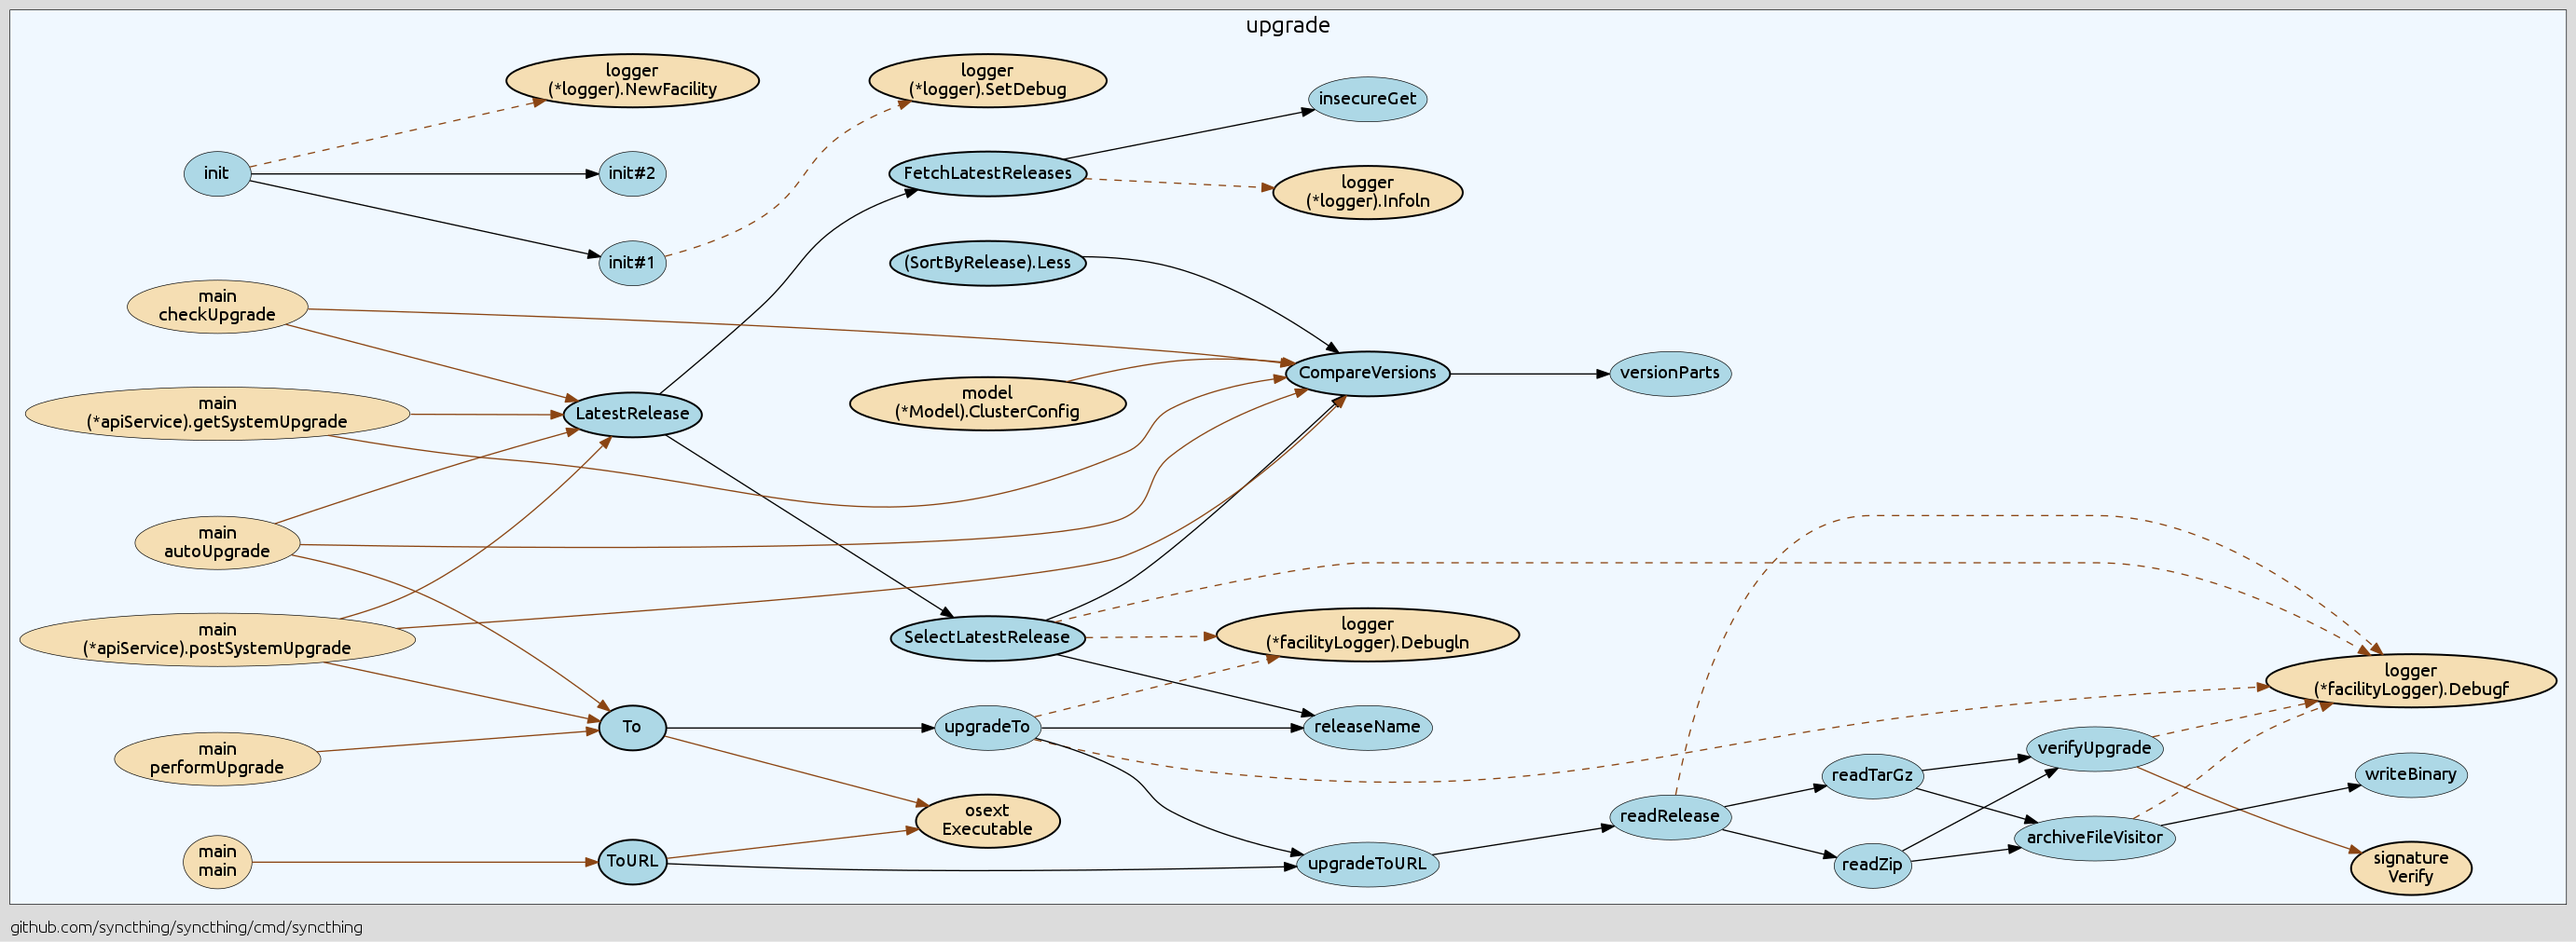
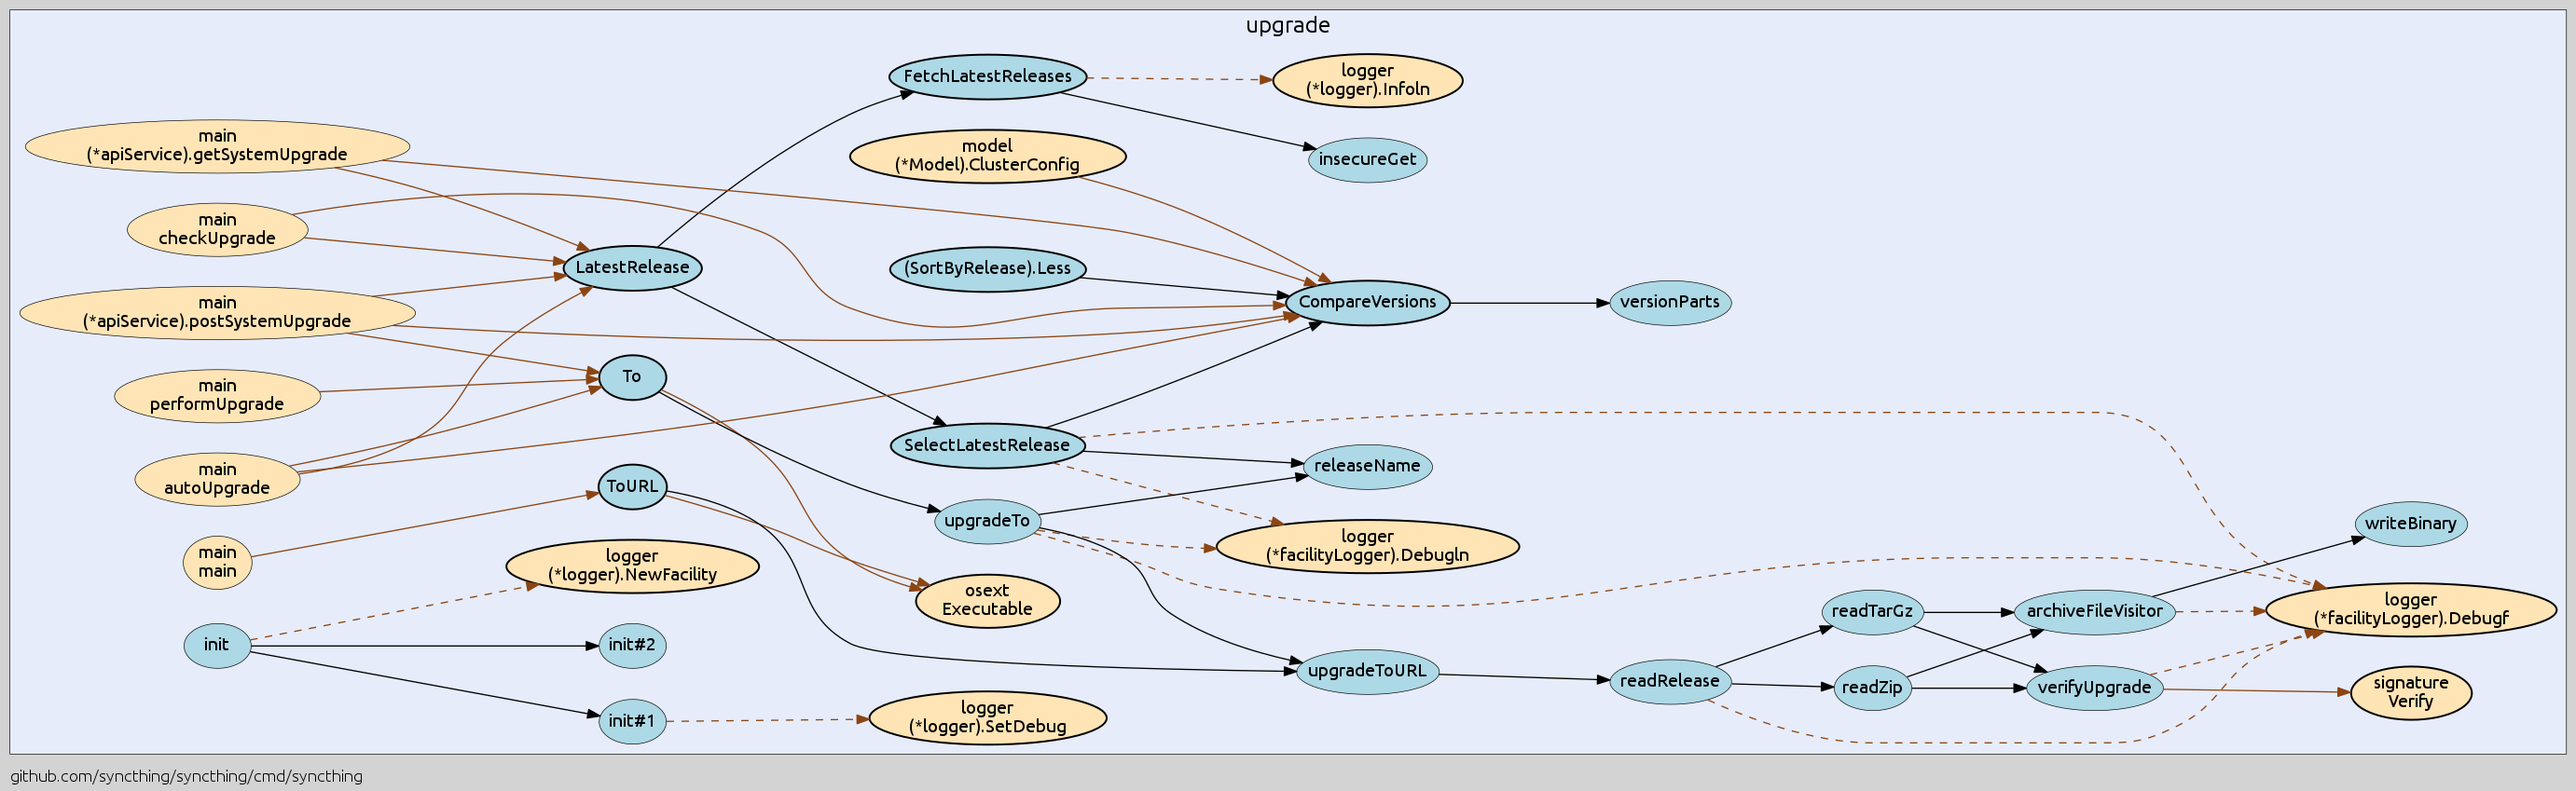
Fixes #3
- allow focus option as import path with pkg name as fallback
- now shows error when focus pkg not found
- fixed some coloring issues when focusing pkg in stdlib
- minor changes in coloring

diff --git a/output.go b/output.go
@@ -14,17 +14,21 @@ import (
 
 var output io.Writer = os.Stdout
 
-func printOutput(mainPkg *types.Package, cg *callgraph.Graph, focusPkg, limitPath string, ignorePaths []string, groupBy map[string]bool) error {
+func printOutput(mainPkg *types.Package, cg *callgraph.Graph, focusPkg *build.Package, limitPath string, ignorePaths []string, groupBy map[string]bool) error {
 	groupType := groupBy["type"]
 	groupPkg := groupBy["pkg"]
 
 	cluster := NewDotCluster("focus")
 	cluster.Attrs = dotAttrs{
-		"label":     focusPkg,
-		"bgcolor":   "aliceblue",
+		"bgcolor":   "white",
+		"label":     "",
 		"labelloc":  "t",
 		"labeljust": "c",
 		"fontsize":  "18",
+	}
+	if focusPkg != nil {
+		cluster.Attrs["bgcolor"] = "#e6ecfa"
+		cluster.Attrs["label"] = focusPkg.Name
 	}
 
 	nodes := []*dotNode{}
@@ -48,8 +52,8 @@ func printOutput(mainPkg *types.Package, cg *callgraph.Graph, focusPkg, limitPat
 		calleePkg := callee.Func.Pkg.Pkg
 
 		// focus specific pkg
-		if focusPkg != "" &&
-			!(callerPkg.Name() == focusPkg || calleePkg.Name() == focusPkg) {
+		if focusPkg != nil &&
+			!(callerPkg.Path() == focusPkg.ImportPath || calleePkg.Path() == focusPkg.ImportPath) {
 			return nil
 		}
 
@@ -74,6 +78,8 @@ func printOutput(mainPkg *types.Package, cg *callgraph.Graph, focusPkg, limitPat
 				return n
 			}
 
+			isFocused := focusPkg != nil &&
+				node.Func.Pkg.Pkg.Path() == focusPkg.ImportPath
 			attrs := make(dotAttrs)
 
 			// node label
@@ -93,16 +99,16 @@ func printOutput(mainPkg *types.Package, cg *callgraph.Graph, focusPkg, limitPat
 
 			pkg, _ := build.Import(node.Func.Pkg.Pkg.Path(), "", 0)
 			// set node color
-			if pkg.Goroot {
-				attrs["fillcolor"] = "#adedad"
-			} else if node.Func.Pkg.Pkg.Name() == focusPkg {
+			if isFocused {
 				attrs["fillcolor"] = "lightblue"
+			} else if pkg.Goroot {
+				attrs["fillcolor"] = "#adedad"
 			} else {
-				attrs["fillcolor"] = "wheat"
+				attrs["fillcolor"] = "moccasin"
 			}
 
 			// include pkg name
-			if !groupPkg && node.Func.Pkg.Pkg.Name() != focusPkg {
+			if !groupPkg && !isFocused {
 				label = fmt.Sprintf("%s\n%s", node.Func.Pkg.Pkg.Name(), label)
 			}
 
@@ -120,7 +126,7 @@ func printOutput(mainPkg *types.Package, cg *callgraph.Graph, focusPkg, limitPat
 			c := cluster
 
 			// group by pkg
-			if groupPkg && node.Func.Pkg.Pkg.Name() != focusPkg {
+			if groupPkg && !isFocused {
 				label := node.Func.Pkg.Pkg.Name()
 				if pkg.Goroot {
 					label = node.Func.Pkg.Pkg.Path()
@@ -135,7 +141,7 @@ func printOutput(mainPkg *types.Package, cg *callgraph.Graph, focusPkg, limitPat
 							"fontsize":  "16",
 							"label":     label,
 							"style":     "filled",
-							"fillcolor": "snow",
+							"fillcolor": "lightyellow",
 						},
 					}
 					if pkg.Goroot {
@@ -148,10 +154,6 @@ func printOutput(mainPkg *types.Package, cg *callgraph.Graph, focusPkg, limitPat
 			// group by type
 			if groupType && sign.Recv() != nil {
 				label := strings.Split(node.Func.RelString(node.Func.Pkg.Pkg), ".")[0]
-				fillclr := "lemonchiffon"
-				if node.Func.Pkg.Pkg.Name() == focusPkg {
-					fillclr = "lavender"
-				}
 				key := sign.Recv().Type().String()
 				if _, ok := c.Clusters[key]; !ok {
 					c.Clusters[key] = &dotCluster{
@@ -164,11 +166,13 @@ func printOutput(mainPkg *types.Package, cg *callgraph.Graph, focusPkg, limitPat
 							"label":     label,
 							"labelloc":  "b",
 							"style":     "rounded,filled",
-							"fillcolor": fillclr,
+							"fillcolor": "wheat2",
 						},
 					}
-					if pkg.Goroot {
-						c.Clusters[key].Attrs["fillcolor"] = "#c4ecc4"
+					if isFocused {
+						c.Clusters[key].Attrs["fillcolor"] = "lightsteelblue"
+					} else if pkg.Goroot {
+						c.Clusters[key].Attrs["fillcolor"] = "#c2e3c2"
 					}
 				}
 				c = c.Clusters[key]
@@ -208,8 +212,8 @@ func printOutput(mainPkg *types.Package, cg *callgraph.Graph, focusPkg, limitPat
 		}
 
 		// colorize calls outside focused pkg
-		if focusPkg != "" &&
-			(calleePkg.Name() != focusPkg || callerPkg.Name() != focusPkg) {
+		if focusPkg != nil &&
+			(calleePkg.Path() != focusPkg.ImportPath || callerPkg.Path() != focusPkg.ImportPath) {
 			attrs["color"] = "saddlebrown"
 		}
 

diff --git a/main.go b/main.go
@@ -71,35 +71,78 @@ func main() {
 	}
 }
 
-func run(ctxt *build.Context, focusPkg, limitPath string, groupBy map[string]bool, ignorePaths []string, tests bool, args []string) error {
-	conf := loader.Config{Build: ctxt}
-
+func run(ctxt *build.Context, focus, limitPath string, groupBy map[string]bool, ignorePaths []string, tests bool, args []string) error {
 	if len(args) == 0 {
 		return fmt.Errorf("missing arguments")
 	}
 
 	t0 := time.Now()
+	conf := loader.Config{Build: ctxt}
 	_, err := conf.FromArgs(args, tests)
 	if err != nil {
 		return err
 	}
-	iprog, err := conf.Load()
+	load, err := conf.Load()
 	if err != nil {
 		return err
 	}
-	logf("load took: %v", time.Since(t0))
+	logf("loading took: %v", time.Since(t0))
+	logf("%d imported (%d created)", len(load.Imported), len(load.Created))
 
 	t0 = time.Now()
-	prog := ssautil.CreateProgram(iprog, 0)
+	prog := ssautil.CreateProgram(load, 0)
 	prog.Build()
-	logf("build took: %v", time.Since(t0))
+	pkgs := prog.AllPackages()
+	logf("building took: %v", time.Since(t0))
+
+	var focusPkg *build.Package
+	if focus != "" {
+		focusPkg, err = conf.Build.Import(focus, "", 0)
+		if err != nil {
+			if strings.Contains(focus, "/") {
+				return err
+			}
+			// try to find package by name
+			var foundPaths []string
+			for _, p := range pkgs {
+				if p.Pkg.Name() == focus {
+					foundPaths = append(foundPaths, p.Pkg.Path())
+				}
+			}
+			if len(foundPaths) == 0 {
+				return err
+			} else if len(foundPaths) > 1 {
+				for _, p := range foundPaths {
+					fmt.Fprintf(os.Stderr, " - %s\n", p)
+				}
+				return fmt.Errorf("found %d packages with name %q, use import path not name", len(foundPaths), focus)
+			}
+			if focusPkg, err = conf.Build.Import(foundPaths[0], "", 0); err != nil {
+				return err
+			}
+		}
+		logf("focusing: %v", focusPkg.ImportPath)
+	}
+
+	var mains []*ssa.Package
+	if tests {
+		for _, pkg := range pkgs {
+			if main := prog.CreateTestMainPackage(pkg); main != nil {
+				mains = append(mains, main)
+			}
+		}
+		if mains == nil {
+			return fmt.Errorf("no tests")
+		}
+	} else {
+		mains = append(mains, ssautil.MainPackages(pkgs)...)
+		if len(mains) == 0 {
+			return fmt.Errorf("no main packages")
+		}
+	}
+	logf("%d packages (%d main)", len(pkgs), len(mains))
 
 	t0 = time.Now()
-	mains, err := mainPackages(prog, tests)
-	if err != nil {
-		return err
-	}
-	logf("%d mains", len(mains))
 	ptrcfg := &pointer.Config{
 		Mains:          mains,
 		BuildCallGraph: true,
@@ -112,31 +155,6 @@ func run(ctxt *build.Context, focusPkg, limitPath string, groupBy map[string]boo
 
 	return printOutput(mains[0].Pkg, result.CallGraph,
 		focusPkg, limitPath, ignorePaths, groupBy)
-}
-
-func mainPackages(prog *ssa.Program, tests bool) ([]*ssa.Package, error) {
-	pkgs := prog.AllPackages()
-	logf("%d packages", len(pkgs))
-
-	var mains []*ssa.Package
-	if tests {
-		for _, pkg := range pkgs {
-			if main := prog.CreateTestMainPackage(pkg); main != nil {
-				mains = append(mains, main)
-			}
-		}
-		if mains == nil {
-			return nil, fmt.Errorf("no tests")
-		}
-		return mains, nil
-	}
-
-	mains = append(mains, ssautil.MainPackages(pkgs)...)
-	if len(mains) == 0 {
-		return nil, fmt.Errorf("no main packages")
-	}
-
-	return mains, nil
 }
 
 func logf(f string, a ...interface{}) {

diff --git a/dot.go b/dot.go
@@ -39,7 +39,7 @@ const tmplGraph = `digraph gocallvis {
     fontname="Ubuntu";
     fontsize="13";
     rankdir="LR";
-    bgcolor="gainsboro";
+    bgcolor="lightgray";
     style="solid";
     penwidth="0.5";
     pad="0.0";
